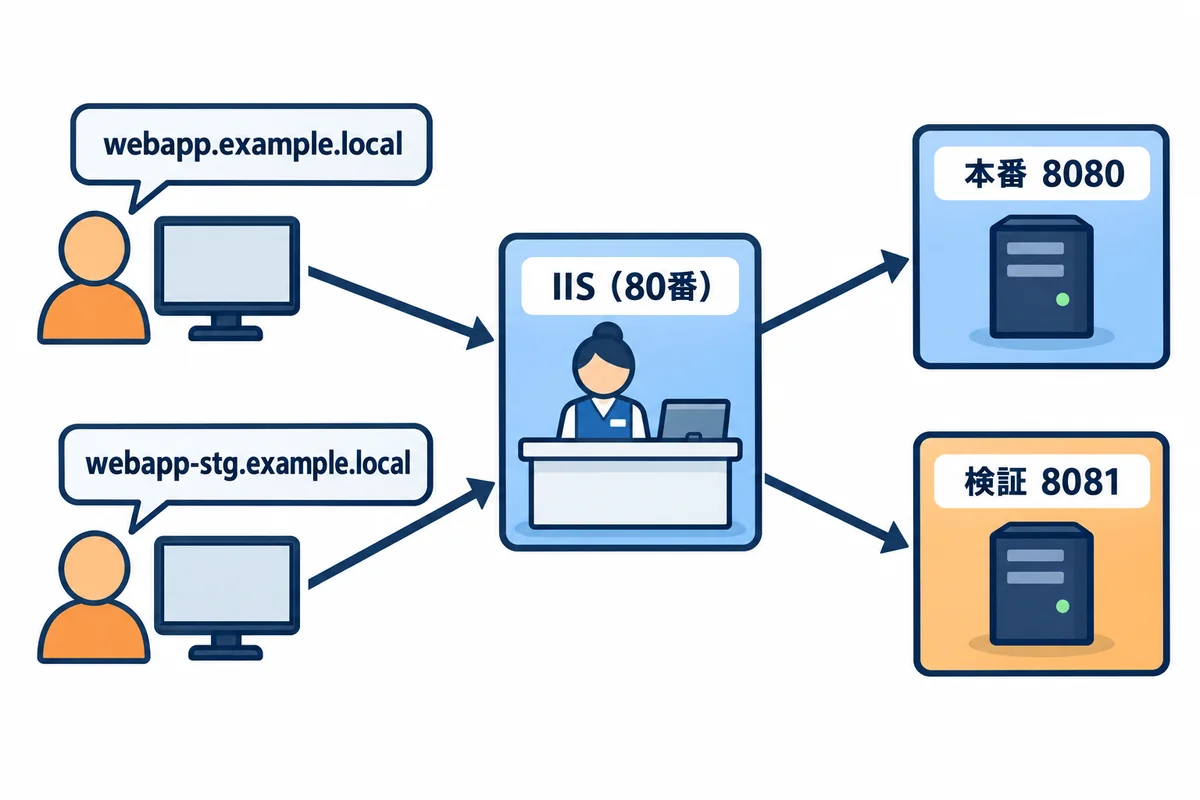
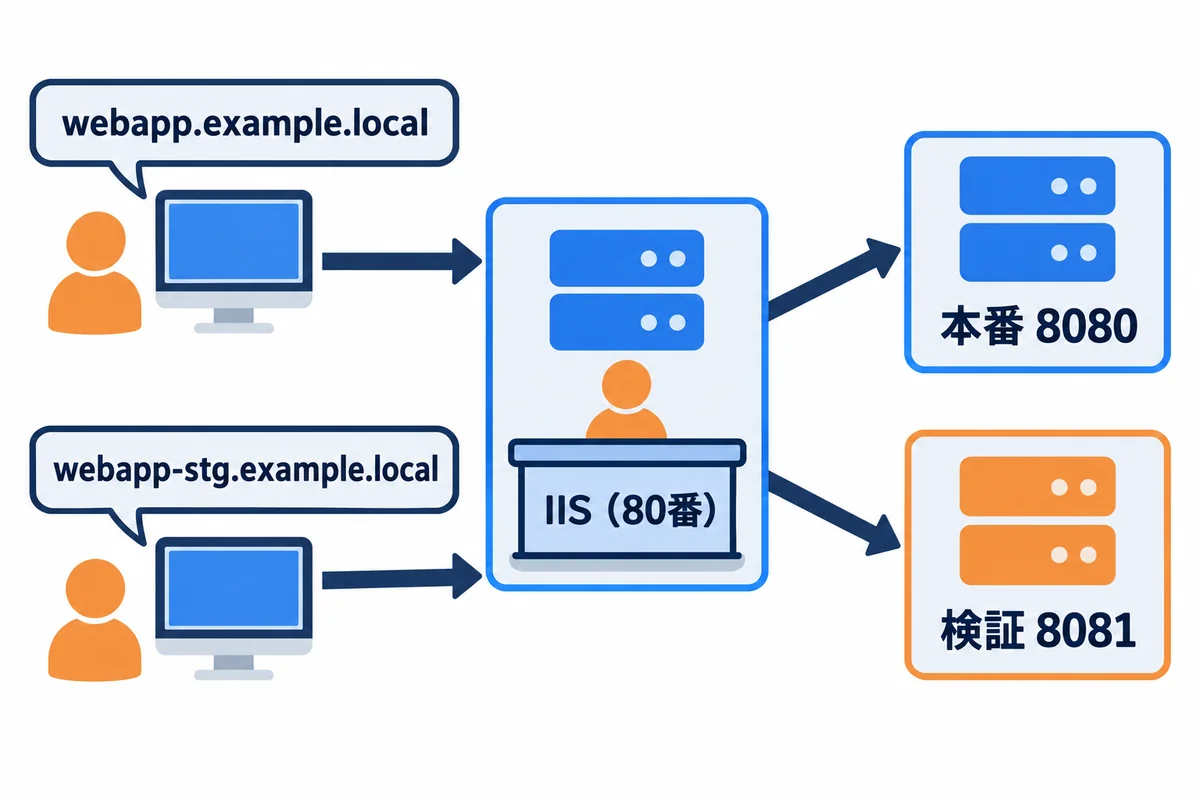
docs(onprem): 03 技術スタックの比較と選定理由を追加
- OS・Web サーバー・DB・アプリ・画面の作り方・常駐のさせ方・台数・コンテナ・バックアップの選択肢を、長所・短所・今回の理由・見直すときで比較
- サポート期限（Windows Server 2022/2025）と SQL Server 2025 Express の上限（50GB）を公式の情報で確認して記載
- 00 の SQL Server Express の上限を直し、受付の図を統一テーマで描き直した
- 統一テーマの図 9 枚（Codex gpt-6.1-sol）

diff --git a/onprem/03_技術スタックの比較と選定理由.md b/onprem/03_技術スタックの比較と選定理由.md
@@ -1,0 +1,285 @@
+<div style="text-align: center; padding: 28px 0 8px;">
+<div style="font-size: 14px; color: #475569;">オンプレミス構築 教育資料</div>
+<div style="font-size: 26px; font-weight: 800; color: #0f172a; margin-top: 6px; line-height: 1.35;">技術スタックの比較と選定理由</div>
+<div style="font-size: 13px; color: #475569; margin-top: 8px;">ほかにどんな選び方があり、それぞれの長所と短所は何で、今回なぜこれを選んだのか</div>
+</div>
+
+# 技術スタックの比較と選定理由
+
+## この資料について
+
+手順書（04・05）は、「Windows Server ＋ IIS ＋ PostgreSQL ＋ アプリ」という組み合わせで書いています。でも、Web アプリを動かす方法は、これだけではありません。この資料では、
+
+- 層ごとに、**ほかにどんな選択肢があるか**
+- それぞれの**長所と短所**
+- 今回の条件で、**なぜこれを選んだか**
+- **どんなときに見直すか**
+
+を説明します。上司や情報システム部門に「なぜこの構成なのか」を聞かれたときに、答えられるようになることが目的です。
+
+> **情報の時点:** サポートの期限や無料版の制限は、2026-11-01 時点で各社の公式の情報を確かめたものです。年に1回は、公式のページで確かめ直してください。
+
+## 1. 技術スタックとは
+
+<div style="max-width: 760px; margin: 18px auto; text-align: center;">
+<img src="images/03-01_stack_layers.webp" alt="下から仮想マシン、OS、データベースとWebサーバー、アプリ、画面（ブラウザ）の5段の積み重ね" style="width: 100%;">
+<div style="font-size: 12px; color: #64748b; margin-top: 6px;">図1-1: 技術スタックは、アプリを動かす技術の積み重ね</div>
+</div>
+
+**技術スタック**は、アプリを動かすために積み重ねる技術の組み合わせです。下の層が無いと、上の層は動きません。
+
+| 層 | 今回の選択 | ほかの選択肢 | 説明の章 |
+|---|---|---|---|
+| 仮想マシン | 会社が用意（VMware・Hyper-V など） | クラウド（Azure・AWS） | 00 基礎知識 2 章 |
+| OS | **Windows Server** | Linux（Red Hat Enterprise Linux・Ubuntu Server など） | 3 |
+| Web サーバー（受付） | **IIS** | nginx・Apache・Caddy・受付を置かない | 4 |
+| データベース | **PostgreSQL** | SQL Server・MySQL・SQLite | 5 |
+| アプリ | **Rust＋Topcoat** または **Django＋React** | ASP.NET Core・Node.js・Java（Spring Boot）・PHP（Laravel） | 6 |
+| 画面の作り方 | サーバーで作る（Rust 版）／React（Django 版） | — | 7 |
+| 常駐のさせ方 | **WinSW**（Rust 版） | NSSM・IIS に起動させる・タスク スケジューラ | 8 |
+| サーバーの台数 | **1 台にまとめる** | 役割ごとに分ける | 9 |
+| 置き方 | **そのまま入れる** | コンテナ（Docker） | 10 |
+
+> **用語:** 技術スタック（technology stack：アプリを動かすために重ねて使う、OS・データベース・言語・フレームワークなどの組み合わせ）
+
+## 2. 選ぶときの基準
+
+<div style="max-width: 760px; margin: 18px auto; text-align: center;">
+<img src="images/03-09_decision.webp" alt="天びんの左に会社の決まり・運用しやすさ・費用、右に作りやすさ・速さ。左に少し傾く" style="width: 100%;">
+<div style="font-size: 12px; color: #64748b; margin-top: 6px;">図2-1: 何を大事にするかで、選ぶ物が変わる</div>
+</div>
+
+技術に「いちばん良い物」はありません。**条件によって、良い物が変わります**。今回は、次の順に大事にしました。
+
+| 順 | 基準 | 今回の条件 |
+|---|---|---|
+| 1 | **会社の決まり・サポート** | OS は会社が Windows Server を入れる。サーバーはインターネットにつながらない。HTTPS は使えない |
+| 2 | **運用しやすさ** | インフラの専任がいない。作った人が異動しても、手順書を見れば別の人が続けられること |
+| 3 | **費用** | 追加のライセンス費用を、なるべくかけない |
+| 4 | **長く使えること** | 安全の修正（サポート）が、長く続くこと |
+| 5 | **作りやすさ・速さ** | 社内の数十〜数百人が使う規模。とびきりの速さは要らない |
+
+「作りやすさ」や「速さ」を上にすると、別の選び方になります。たとえば、インフラの専任がいて Linux に慣れているなら、OS は Linux を選ぶ方が自然です。
+
+## 3. OS: Windows Server か Linux か
+
+<div style="max-width: 760px; margin: 18px auto; text-align: center;">
+<img src="images/03-02_os_choice.webp" alt="Windows Serverは会社の決まり・画面で操作。Linuxは無料・コマンドで操作。今回はWindows Server" style="width: 100%;">
+<div style="font-size: 12px; color: #64748b; margin-top: 6px;">図3-1: サーバーの OS の2つの系統</div>
+</div>
+
+| | Windows Server | Linux（RHEL・Ubuntu Server など） |
+|---|---|---|
+| 費用 | ライセンスが要る（会社が払う） | 無料の物が多い（RHEL など、サポート付きは有料） |
+| 操作 | 画面（デスクトップ）でも、PowerShell でも | 主にコマンド（SSH でつなぐ） |
+| 会社の管理との相性 | **Active Directory・Windows Update の配布・ウイルス対策など、会社の仕組みにそのまま乗る** | 会社によっては、管理の仕組みが無い |
+| Web の情報の多さ | Web アプリの運用の情報は、Linux より少ない | **Web アプリの運用の情報が最も多い** |
+| 向いているアプリ | ASP.NET Core、IIS で動く物 | ほとんどの Web の技術（Python・Node.js・Rust・Java・PHP） |
+| 長所 | 情報システム部門が慣れている／画面で確かめられる | 軽い・速い・コンテナと相性が良い |
+| 短所 | Linux 向けに作られた道具の一部が、Windows では使えない・動きが違う（例：nginx・Python の gunicorn） | 情報システム部門が管理していないと、更新や監視を全部自分でする |
+
+**Windows Server のサポートの期限**（Microsoft のライフサイクルの情報。2026-11-01 時点）:
+
+| 版 | 通常のサポート（機能の改善も） | 延長サポート（安全の修正だけ） |
+|---|---|---|
+| Windows Server 2022 | 2026-10-13 に終了 | 2031-10-14 まで |
+| Windows Server 2025 | 2029-11-13 まで | 2034-11-14 まで |
+
+どちらの版でも、安全の修正は 2031 年以降まで続きます。新しく借りるなら、**2025 の方が長く使えます**。
+
+**今回の選定: Windows Server**
+
+- 会社が入れてくれる OS が Windows Server だから（**会社の決まり**）。
+- 会社のアカウント・更新の配布・ウイルス対策などに、最初から乗っている（**運用しやすさ**）。
+- **見直すとき:** 会社が Linux の仮想マシンも貸してくれて、Linux を管理できる人がいる場合。
+
+## 4. Web サーバー（受付）: IIS・nginx・Apache・Caddy
+
+<div style="max-width: 760px; margin: 18px auto; text-align: center;">
+<img src="images/03-03_webserver_choice.webp" alt="IIS（Windowsに付属・今回）、nginx（軽くて速い）、Apache（歴史が長い）の3つの受付" style="width: 100%;">
+<div style="font-size: 12px; color: #64748b; margin-top: 6px;">図4-1: 受付（Web サーバー）の選択肢</div>
+</div>
+
+| | IIS | nginx | Apache（httpd） | Caddy |
+|---|---|---|---|---|
+| どこの物 | Microsoft（Windows Server に付属） | F5（無料の版あり） | Apache ソフトウェア財団 | 有志（無料） |
+| Windows での扱い | **Windows の一部として、Microsoft がサポート** | 公式の説明で「Windows 版はベータ版と見なされる」とされ、性能にも制限がある | 公式は Windows 用の実行ファイルを配っておらず、別の団体の物を使う | Windows 用の実行ファイルがある |
+| リバースプロキシ | URL Rewrite と ARR の追加が要る | 標準でできる | 標準でできる（mod_proxy） | 標準でできる |
+| HTTPS | Windows の証明書の仕組みで管理 | 設定ファイルで | 設定ファイルで | **自動で証明書を取る**（インターネットにつながる場合） |
+| 長所 | 画面で設定できる／Windows Update で更新される／情報システム部門が慣れている | 軽くて速い。Linux では定番 | 機能と情報が多い | 設定が短い |
+| 短所 | ARR は長く新しい版が出ていない（3.0 のまま） | Windows では本領を出せない | Windows では入手と更新が手間 | 社内（インターネットにつながらない）では、自動の証明書が使えない |
+
+**受付を置かずに、アプリが直接 80 番で受ける**こともできます。部品は減りますが、本番と検証を同じ 80 番で分けられない、アクセスの記録や大きさの制限をアプリで全部作る必要がある、などの短所があります。
+
+**今回の選定: IIS**
+
+- Windows Server の一部なので、追加の費用が無く、**安全の修正が Windows Update で届く**。
+- 名前（Host）で本番と検証を分けられる（00 基礎知識 5.2）。
+- 将来 HTTPS にするとき、Windows の証明書の仕組みで管理できる（参考資料）。
+- **見直すとき:** OS を Linux にするとき（nginx が定番）。
+
+## 5. データベース: PostgreSQL・SQL Server・MySQL・SQLite
+
+<div style="max-width: 760px; margin: 18px auto; text-align: center;">
+<img src="images/03-04_db_choice.webp" alt="PostgreSQL（無料・高機能・今回）、SQL Server（Microsoft製）、MySQL（Webで広く使う）、SQLite（1ファイルだけ）" style="width: 100%;">
+<div style="font-size: 12px; color: #64748b; margin-top: 6px;">図5-1: データベースの選択肢</div>
+</div>
+
+| | PostgreSQL | SQL Server | MySQL | SQLite |
+|---|---|---|---|---|
+| 費用 | 無料 | Express は無料。Standard 以上は有料 | 無料の版（Community）あり | 無料 |
+| 無料の版の制限 | 無い | Express は、1つのデータベースが 50GB まで（2025 の版。2022 までは 10GB）、CPU は 4 コアまで、メモリの使い道にも上限 | 無い | 無い |
+| Windows での扱い | 公式の Windows 用インストーラーがある | **Microsoft の製品。Windows と最も相性が良い** | Windows 用インストーラーがある | ファイル1つ。サーバーのプログラムが要らない |
+| 機能 | 豊富（JSON・全文検索・いろいろな型） | 豊富。管理の画面（SSMS）が強い | 十分 | 少ない。**同時の書き込みに弱い** |
+| アプリの部品 | Rust・Python（Django）とも、定番 | Django は追加の部品（mssql-django）。Rust は部品が少ない | Rust・Python とも、定番 | Rust・Python とも、定番 |
+| 長所 | 無料で制限が無い／SQL が標準にそっている／情報が多い | 情報システム部門が慣れていることが多い／Windows の認証でログインできる | 世界で広く使われている | 準備が要らない |
+| 短所 | Windows での運用の情報は、Linux より少ない | 大きくなると有料の版が要る | 一部の SQL の書き方が独特 | 複数の人が同時に書く業務アプリには向かない |
+
+**今回の選定: PostgreSQL（仮想マシンの中に入れる）**
+
+- **無料で、大きさの制限が無い**。図面のデータ（1件で最大 50MB）をデータベースに入れるので、年月がたつと大きくなる。
+- Rust（sqlx など）と Django の、どちらからも定番として使える。
+- **見直すとき:** 会社の決まりで SQL Server を使う場合や、情報システム部門が SQL Server の運用（バックアップ・更新）を引き受けてくれる場合（00 基礎知識 7.5、02 の 15 章）。
+
+## 6. アプリの作り方（言語とフレームワーク）
+
+<div style="max-width: 760px; margin: 18px auto; text-align: center;">
+<img src="images/03-05_app_choice.webp" alt="Rust＋Topcoat（1つの実行ファイル）、Django＋React（部品が豊富）、ASP.NET Core（Windowsと相性）、Node.js（画面と同じ言葉）" style="width: 100%;">
+<div style="font-size: 12px; color: #64748b; margin-top: 6px;">図6-1: アプリの作り方の選択肢</div>
+</div>
+
+> **用語:** フレームワーク（framework：Web アプリでよく使う仕組み（ログイン・画面・データベースとのやり取りなど）を、まとめて用意してくれる土台）
+
+| | Rust＋Topcoat（04） | Django＋React（05） | ASP.NET Core（C#） | Node.js（Express・NestJS など） | Java（Spring Boot） | PHP（Laravel） |
+|---|---|---|---|---|---|---|
+| サーバーに置く物 | **実行ファイル1つ**（＋画面の部品のフォルダ） | Python の実行の環境＋アプリ＋画面の成果物 | .NET の実行の環境＋アプリ | Node.js＋アプリ＋部品のフォルダ | Java の実行の環境＋アプリ | PHP＋アプリ |
+| Windows・IIS との相性 | 良い（ただの実行ファイル） | 普通（Windows で動く Web サーバーの部品が限られる。下の注） | **最も良い**（IIS の中で直接動かせる。Microsoft の製品） | 普通 | 普通 | 普通（IIS の FastCGI で動く） |
+| 速さ・メモリ | **とても速く、メモリが少ない** | 普通 | 速い | 普通 | 速いが、メモリを多く使う | 普通 |
+| 作りやすさ | 覚えることが多い（所有権など） | **管理画面・ログイン・データベースの道具が最初から付いている** | 道具（Visual Studio）が強い | 画面と同じ JavaScript で書ける | 大きなシステム向けの決まりごとが多い | 簡単に始められる |
+| 型の安全さ | **とても強い**（間違いの多くを作る前に見つける） | 弱い（Python）／TypeScript で補う（React） | 強い | TypeScript で補う | 強い | 弱い |
+| 部品の多さ | 増えている途中。Topcoat はまだ 0.x の版 | **とても多い** | 多い | とても多い | とても多い | 多い |
+| 部品の更新の手間 | 少ない（実行ファイルに全部入る） | 多い（Python の部品と、npm の部品の両方） | 普通 | **多い**（npm の部品の入れ替わりが速い） | 普通 | 普通 |
+| 書ける人の探しやすさ | 少ない | 多い | 多い | とても多い | とても多い | 多い |
+
+> **注（Python の Web サーバー）:** Linux で定番の gunicorn は、Windows では動きません。Windows では、すべて Python で書かれた **waitress** を使うのが一般的です（05 で使う）。
+
+**この資料で2つの作り方を用意した理由**
+
+| | Rust＋Topcoat（04） | Django＋React（05） |
+|---|---|---|
+| こんなときに選ぶ | 運用の手間を減らしたい／サーバーの力が小さい／型で間違いを防ぎたい | 早く作りたい／画面を細かく動かしたい／Python と JavaScript を書ける人が多い |
+| 運用の手間 | 実行ファイルを入れ替えるだけ | Python の環境と部品を、サーバーに持ち込んで管理する |
+| 気を付けること | Topcoat は新しく、版が上がると書き方が変わることがある | Python・Django・npm の部品の、安全の修正を追い続ける |
+
+**ほかの選択肢を選ぶとき:** 会社に C# を書ける人が多いなら、**ASP.NET Core** は Windows Server・IIS との相性が最も良く、有力な選択肢です。この資料の、OS・IIS・PostgreSQL・バックアップ・ファイアウォールの部分は、そのまま使えます。
+
+## 7. 画面の作り方: サーバーで作るか、ブラウザで作るか
+
+<div style="max-width: 760px; margin: 18px auto; text-align: center;">
+<img src="images/03-06_ssr_vs_spa.webp" alt="上はサーバーが完成したページを渡す。下はReactで、最初に部品を渡し、その後はJSONだけをやり取りしてブラウザで組み立てる" style="width: 100%;">
+<div style="font-size: 12px; color: #64748b; margin-top: 6px;">図7-1: サーバーで画面を作る形と、ブラウザで画面を作る形</div>
+</div>
+
+| | サーバーで画面を作る（Rust＋Topcoat 版） | ブラウザで画面を作る（React。Django 版） |
+|---|---|---|
+| 仕組み | ボタンを押すたびに、サーバーが完成したページ（HTML）を返す | 最初に画面の部品（JavaScript）を渡し、その後はデータ（JSON）だけをやり取りして、ブラウザが画面を組み立てる |
+| 長所 | 作る物が1つで済む／古いブラウザでも動きやすい／最初の表示が速い | 画面の動きを細かく作れる（入力しながら絞り込む、など）／画面とサーバーを別の人が作れる |
+| 短所 | 細かい画面の動きには工夫が要る | **作る物が2つになる**（画面とサーバー）／画面を作るのに Node.js などの道具が要る（開発用のパソコンだけ） |
+| サーバーで要る物 | アプリだけ | アプリ＋画面の成果物（05 では Django のプロジェクトの中に入れて、Django が配る） |
+
+> **用語:** SPA（エスピーエー。Single Page Application：最初に1枚のページを読み込み、後は JavaScript で画面を書きかえていく作り方。React で作る画面がこれ）
+
+## 8. アプリを常駐させる方法（Rust 版）
+
+アプリを Windows のサービスにする方法（01 の 6 章）にも、いくつかあります。
+
+| 方法 | 長所 | 短所 |
+|---|---|---|
+| **WinSW**（今回） | XML の設定ファイル1つで、サービスにできる／ログの切りかえや、異常終了したときの再起動の設定がある／無料 | 別のソフト（実行ファイル1つ）を持ち込む |
+| NSSM | 画面で設定できる／広く使われてきた | 長く新しい版が出ていない |
+| アプリ自身を Windows サービスとして作る | 部品が増えない | アプリの中に Windows 専用の作りが要る |
+| IIS に起動させる（HttpPlatformHandler など） | IIS が、アプリの起動と再起動を受け持つ | IIS の設定が増える。IIS が止まるとアプリも止まる |
+| タスク スケジューラの「起動したとき」 | 追加の部品が要らない | 止まったときの再起動や、状態の確かめ方が弱い |
+
+**今回の選定: WinSW** — 設定が1つのファイルにまとまり、手順書で再現しやすいため。Django 版（05）でも同じ WinSW を使い、覚えることを減らします。
+
+## 9. サーバーの台数: 1 台にまとめるか、分けるか
+
+<div style="max-width: 760px; margin: 18px auto; text-align: center;">
+<img src="images/03-07_one_vs_split.webp" alt="左は1台に受付・アプリ・DBをまとめる（簡単・安い、今回）。右は2台に分ける（強いが手間）" style="width: 100%;">
+<div style="font-size: 12px; color: #64748b; margin-top: 6px;">図9-1: 1 台にまとめるか、役割ごとに分けるか</div>
+</div>
+
+| | 1 台にまとめる（今回） | 分ける（Web・アプリのサーバーと、DB のサーバー） |
+|---|---|---|
+| 費用・手間 | **仮想マシン1台分** | 2 台分。更新・監視・バックアップも 2 台分 |
+| 安全 | DB が外に出ない（127.0.0.1 だけ） | DB をネットワークに出すので、ファイアウォールと認証の設定が増える |
+| 壊れたとき | 1 台が止まると全部止まる | 片方の故障の影響を分けられる（ただし、どちらが止まってもアプリは使えない） |
+| 重くなったとき | 仮想マシンの CPU・メモリを増やす | 重い方だけ増やせる |
+| 向いている規模 | 社内の数十〜数百人 | 利用者が多い・止めてはいけない時間が長い |
+
+**本番と検証を同じサーバーに同居させる**のも、同じ考え方です。費用は半分になりますが、検証で重い試験をすると本番が遅くなる、Windows Update の再起動で両方止まる、という短所があります。検証で重い試験をするときは、社員が使わない時間にします。**見直すとき:** 利用者が増えて遅くなったとき、または「止めてはいけない時間」が長くなったとき。
+
+## 10. コンテナ（Docker）を使わない理由
+
+<div style="max-width: 760px; margin: 18px auto; text-align: center;">
+<img src="images/03-08_container.webp" alt="1台のサーバーの上に、アプリ・DB・受付のコンテナの箱が載っている。必要な物を全部入れて運ぶ。今回は使わない" style="width: 100%;">
+<div style="font-size: 12px; color: #64748b; margin-top: 6px;">図10-1: コンテナは、必要な物を全部入れて運ぶ箱</div>
+</div>
+
+**コンテナ**は、アプリと、アプリが動くのに要る物（OS の一部・部品）を、まとめて1つの箱にする技術です。「開発用のパソコンで動いた箱を、そのままサーバーで動かせる」のが長所です。
+
+ただし、今回は使いません。
+
+- Web の世界のコンテナは、ほとんどが **Linux 用**です。Windows Server の上で Linux のコンテナを動かすには、さらに仮想化の仕組みを重ねる必要があり、設定と運用が複雑になります。
+- コンテナの更新・ログ・バックアップの仕組みを、別に覚えて管理する必要があります。インフラの専任がいない今回の条件では、**覚えることを増やさない方が安全**です。
+- 会社の情報システム部門のサポートの範囲から外れやすくなります。
+
+**見直すとき:** Linux のサーバーを使えるようになり、コンテナを管理できる人がいるとき。
+
+> **用語:** コンテナ（container：アプリと、動くのに要る物をまとめて1つの箱にし、どこでも同じように動かす技術。Docker が代表）
+
+## 11. バックアップと監視の道具
+
+| 層 | 今回の選定 | ほかの選択肢 | 今回の理由 |
+|---|---|---|---|
+| DB のバックアップ | `pg_dump`＋タスク スケジューラ（毎晩） | 仮想マシンごとの控え（会社のバックアップの仕組み）／PostgreSQL の WAL を使った「その時刻に戻す」控え（PITR） | 仕組みが分かりやすく、別のデータベースに戻して確かめやすい。データの量が少ないうちは十分 |
+| ファイルのバックアップ | robocopy＋タスク スケジューラ | 会社のバックアップの仕組み | 追加の道具が要らない |
+| 監視 | アプリの `/health`＋イベント ログ＋毎朝の点検 | 会社の監視の仕組み（Zabbix など）に入れてもらう | まずは追加の道具なしで始める。会社に監視の仕組みがあれば、`/health` を見てもらうよう頼む |
+
+- **会社に仮想マシンごとのバックアップの仕組みがあるなら、両方を使います。** 仮想マシンごとの控えは「サーバーが丸ごと壊れた」ときに、`pg_dump` の控えは「データを間違えて消した」ときに役立ちます。
+- 「その時刻に戻す」控え（PITR）は、「1 日分のデータも失えない」ときに考えます。設定と練習の手間が増えます。
+
+## 12. 今回の選定のまとめ
+
+| 層 | 選んだ物 | いちばんの理由 | 見直すとき |
+|---|---|---|---|
+| OS | Windows Server（2025 を推奨） | 会社の決まり・会社の管理の仕組みに乗る | Linux を管理できる人がいるとき |
+| 受付 | IIS（HTTP の 80 番） | Windows の一部で、更新が Windows Update で届く | OS を Linux にするとき |
+| データベース | PostgreSQL 18（同じサーバーの中） | 無料で制限が無い。どちらのアプリからも定番 | 会社の決まりで SQL Server のとき |
+| アプリ | Rust＋Topcoat（04）／Django＋React（05） | 運用の手間の少なさ／作りやすさ（条件で選ぶ） | C# の人が多いなら ASP.NET Core |
+| 常駐 | WinSW | 設定が1ファイルで再現しやすい | — |
+| 台数 | 1 台（本番と検証を同居） | 費用と手間が最小 | 利用者が増えた・止められない時間が長くなった |
+| 置き方 | そのまま入れる（コンテナなし） | 覚えることを増やさない | Linux とコンテナの運用ができるとき |
+| 通信 | HTTP | 社内で HTTPS を使えない | 証明書を用意できるようになったら HTTPS（参考資料） |
+
+## 用語の索引
+
+| 用語 | 短い説明 | 章 |
+|---|---|---|
+| ARR・URL Rewrite | IIS をリバースプロキシにする追加の部品 | 4 |
+| ASP.NET Core | Microsoft の C# の Web フレームワーク | 6 |
+| Caddy | 設定が短い Web サーバー | 4 |
+| Django | Python の Web フレームワーク | 6 |
+| gunicorn・waitress | Python の Web サーバーの部品（Windows では waitress） | 6 |
+| nginx・Apache | Linux で定番の Web サーバー | 4 |
+| NSSM・WinSW | プログラムを Windows のサービスにする道具 | 8 |
+| PITR | その時刻の状態に戻せる、PostgreSQL の控えの取り方 | 11 |
+| React | ブラウザで画面を組み立てる JavaScript の部品 | 7 |
+| SPA | ブラウザで画面を書きかえていく作り方 | 7 |
+| SQL Server Express | SQL Server の無料の版（大きさなどに上限） | 5 |
+| SQLite | ファイル1つのデータベース | 5 |
+| コンテナ・Docker | アプリと必要な物を1つの箱にする技術 | 10 |
+| 技術スタック | アプリを動かす技術の組み合わせ | 1 |
+| 延長サポート | 安全の修正だけが出る期間 | 3 |
+| フレームワーク | Web アプリのよく使う仕組みをまとめた土台 | 6 |

diff --git a/onprem/README.md b/onprem/README.md
@@ -9,7 +9,7 @@
 | 1 | [00 基礎知識](00_基礎知識_サーバー・ネットワーク・Webの仕組み.md) | コンピューターの中身から、サーバー・ネットワーク・Web・DB・メール・運用・セキュリティまでの基礎 | できた |
 | 2 | [01 Windows Server の使い方](01_WindowsServerの使い方_ログイン・PowerShell・管理の道具.md) | リモート デスクトップでのログイン、PowerShell、アカウントと許可、サービス、イベント ビューアー、タスク スケジューラ、ファイアウォール | できた |
 | 3 | 02 SQL と PostgreSQL の使い方 | データベースへのログイン、SQL の書き方（サンプル付き）、ユーザーと権限、バックアップ | 作成中 |
-| 4 | 03 技術スタックの比較と選定理由 | OS・Web サーバー・データベース・アプリの作り方などの選択肢と、長所・短所、今回の選び方 | 作成中 |
+| 4 | [03 技術スタックの比較と選定理由](03_技術スタックの比較と選定理由.md) | OS・Web サーバー・データベース・アプリの作り方などの選択肢と、長所・短所、今回の選び方 | できた |
 | 5 | [04 構築手順（Rust＋Topcoat版）](04_構築手順_Rust_Topcoat版.md) | PostgreSQL・アプリの Windows サービス化・IIS（HTTP）・ファイアウォール・メール・バックアップ・更新と切り戻し | できた（図は作成中） |
 | 6 | 05 構築手順（Django＋React版） | 同じアプリを Django と React で作った場合。React の成果物は Django のプロジェクトの中に置き、Django が同じサーバーで配信する | 作成中 |
 | 7 | 06 トラブルシューティング | 困ったときの調べ方と、よく起きるトラブルの症状・原因・直し方 | 作成中 |

diff --git a/onprem/00_基礎知識_サーバー・ネットワーク・Webの仕組み.md b/onprem/00_基礎知識_サーバー・ネットワーク・Webの仕組み.md
@@ -713,7 +713,7 @@ SQL の書き方と、データベースへのログインの仕方は、**02 SQ
 
 | | PostgreSQL（この資料） | SQL Server |
 |---|---|---|
-| 費用 | 無料 | Express 版は無料（1つのデータベースが 10GB までなどの制限）。それ以上は有料のライセンス |
+| 費用 | 無料 | Express 版は無料（1つのデータベースが 50GB まで（2025 の版。2022 までは 10GB）、CPU は 4 コアまで、などの制限）。それ以上は有料のライセンス |
 | 管理の道具 | psql・pgAdmin | SQL Server Management Studio（SSMS） |
 | バックアップ | `pg_dump`・`pg_restore` | `BACKUP DATABASE`・`RESTORE DATABASE`（SSMS からも） |
 | アプリの部品 | Rust: sqlx・tokio-postgres など／Django: 標準で対応 | Rust: tiberius など／Django: mssql-django（Microsoft が出している部品） |
